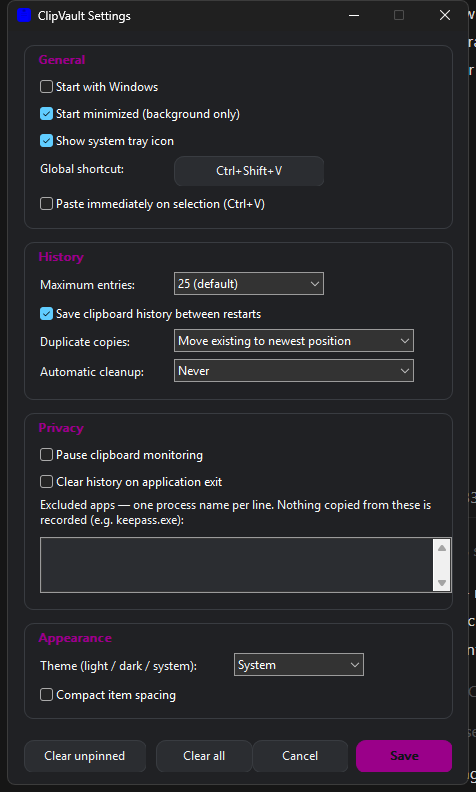
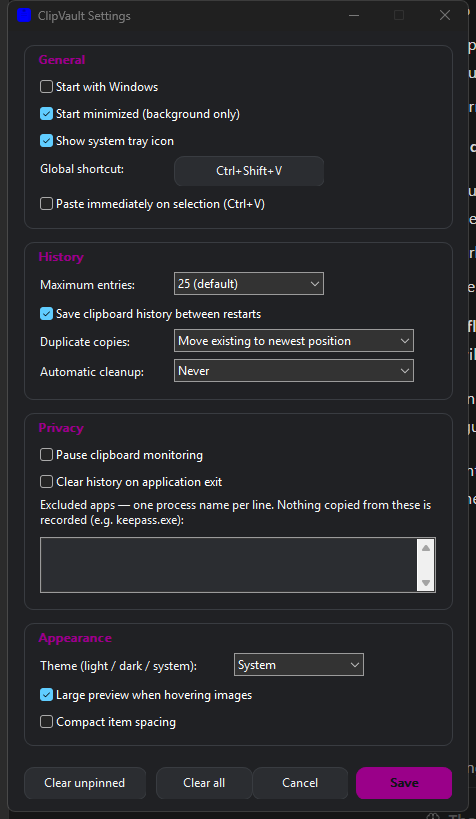
Update settings screenshot, drop machine-specific RAM claim from README

diff --git a/README.md b/README.md
@@ -29,7 +29,7 @@ A lightweight, **native Windows clipboard manager** focused on speed, privacy, a
 ClipVault is built to sit in the tray all day without you noticing:
 
 - **0% CPU while idle** — event-driven, no polling, no background scanning
-- **~14 MB RAM** working set (3 MB private)
+- **Low, fixed memory footprint** — text previews are capped, images are stored on disk and only small thumbnails stay in RAM
 - **1 MB executable** — statically linked, no runtime dependencies, no installer
 - Disk writes are debounced and deduplicated — identical copies share one file, huge screenshots are compressed automatically
 
